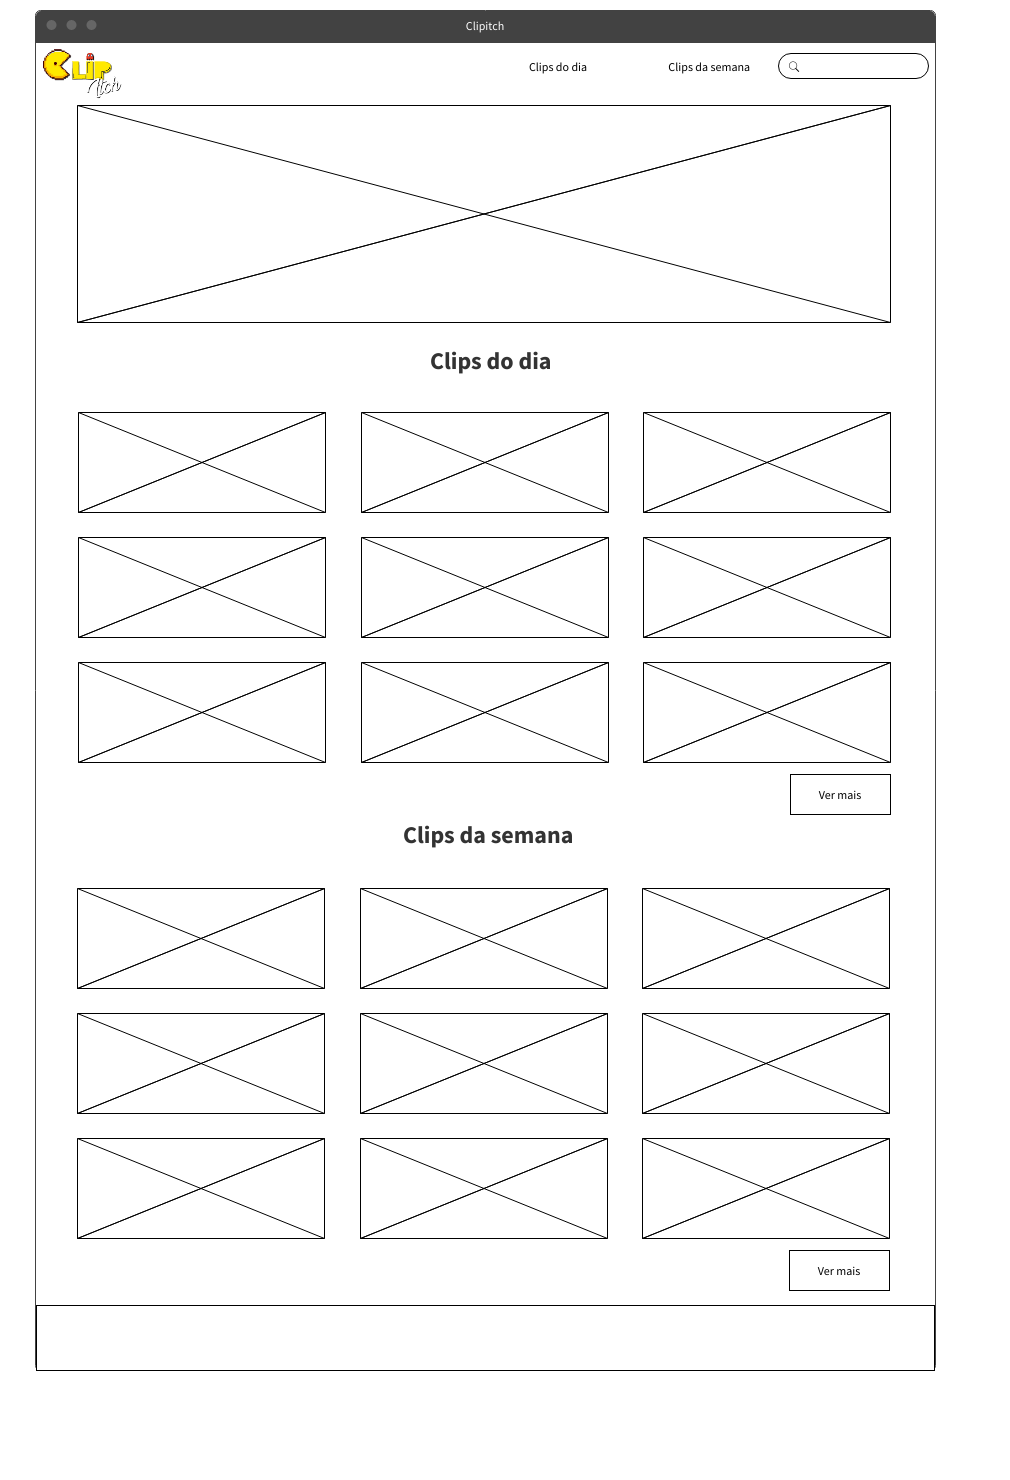
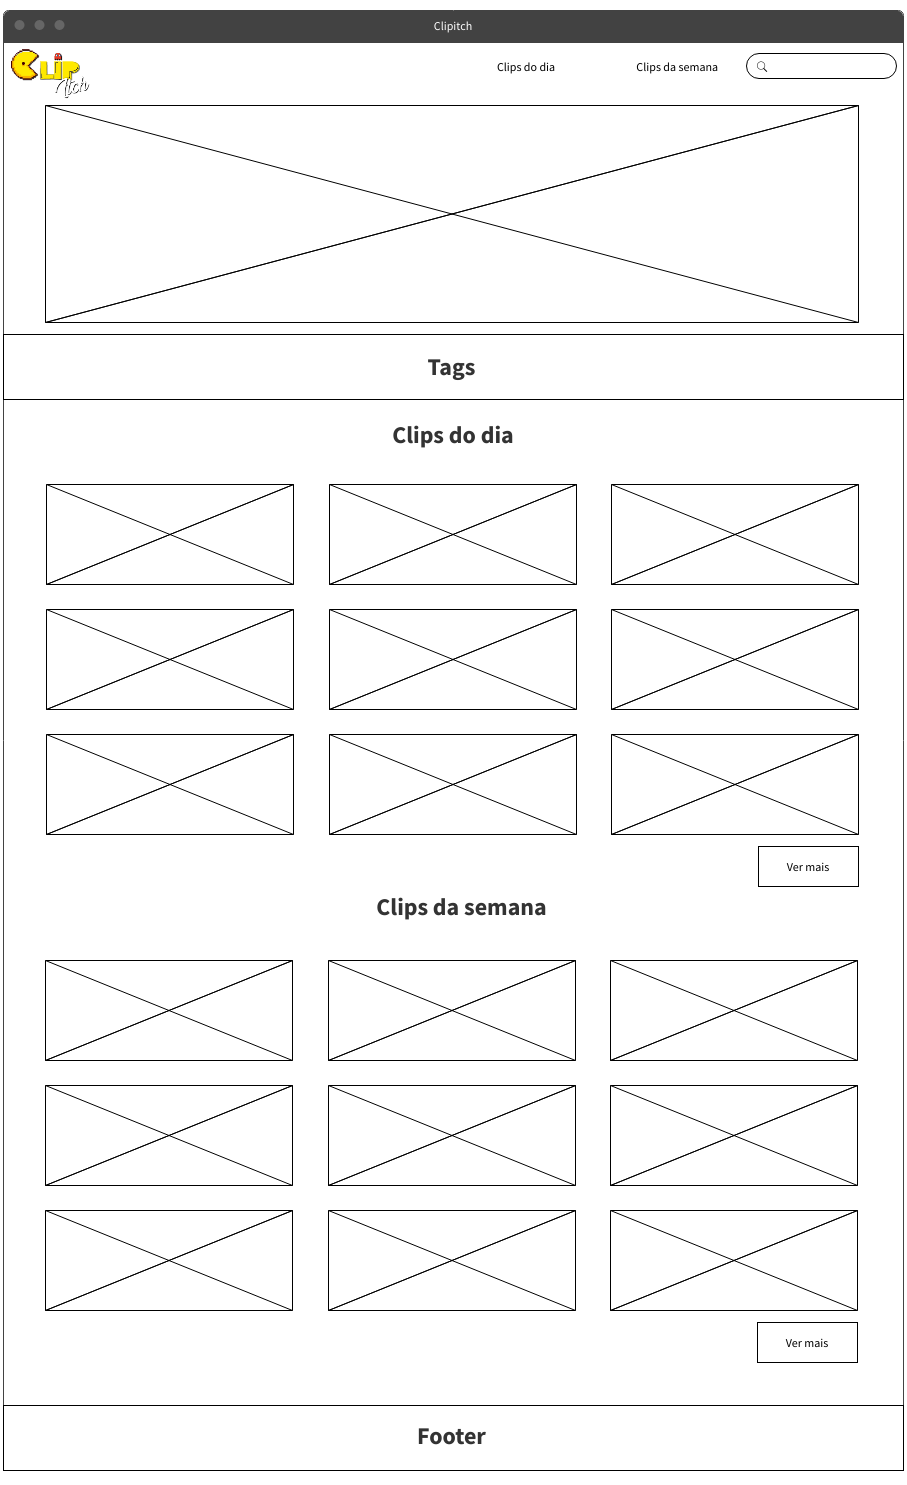
Atualização dos wireframes

diff --git a/docs/04-Projeto de Interface.md b/docs/04-Projeto de Interface.md
@@ -16,12 +16,8 @@ Em todas as páginas há botões que redirecionam o usuário para a Home, além 
 
 ## Wireframes
 
-![Exemplo de Wireframe](img/w1.png)
+![Home](img/w1.png)
 
-![Exemplo de Wireframe](img/w2.png)
+![Clips do dia/semana/resultado da pesquisa](img/w2.png)
 
-![Exemplo de Wireframe](img/w3.png)
-
-![Exemplo de Wireframe](img/w4.png)
-
-![UX PWA - Exemplo de Wireframes](img/uxExample.png)
+![Responsivo](img/w3.png)
